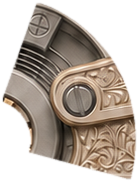
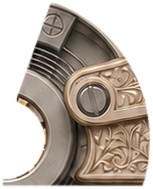
3 o'clock: cut the band on a straight line parallel to the cock's edge
The cock's metal ends on a horizontal edge at y~888 (measured), but the
cover terminated on a radial line at 15 deg, so the band's blunt end
crossed the inset at an angle. The cover's boundary is now the straight
horizontal line y=892, tucked into the cock's shadow — a flush cutoff
parallel to the inset.

diff --git a/index.html b/index.html
@@ -274,7 +274,7 @@
               <img class="cb-rig-static" src="/assets/caseback/rig/static-cock.webp" style="left:58.692%;top:54.545%;width:22.329%;height:24.482%" alt="" decoding="async">
               <img class="cb-rig-static" src="/assets/caseback/rig/static-steelarm.webp" style="left:50.957%;top:34.211%;width:7.576%;height:10.447%" alt="" decoding="async">
               <img class="cb-rig-static" src="/assets/caseback/rig/static-topslot.webp" style="left:57.496%;top:35.486%;width:14.514%;height:19.378%" alt="" decoding="async">
-              <img class="cb-rig-static" src="/assets/caseback/rig/static-balance-arc-cover.webp" style="left:54.466%;top:56.539%;width:11.085%;height:14.514%" alt="" decoding="async">
+              <img class="cb-rig-static" src="/assets/caseback/rig/static-balance-arc-cover.webp" style="left:53.349%;top:56.539%;width:12.201%;height:15.072%" alt="" decoding="async">
               <img class="cb-rig-static" src="/assets/caseback/rig/static-support-top.webp" style="left:55.104%;top:55.502%;width:4.545%;height:5.821%" alt="" decoding="async">
               <img class="cb-rig-static" src="/assets/caseback/rig/static-support-toptab.webp" style="left:54.545%;top:58.852%;width:1.675%;height:2.073%" alt="" decoding="async">
               <img class="cb-rig-static" src="/assets/caseback/rig/static-sec-eleven.webp" style="left:45.933%;top:57.337%;width:5.502%;height:6.220%" alt="" decoding="async">
